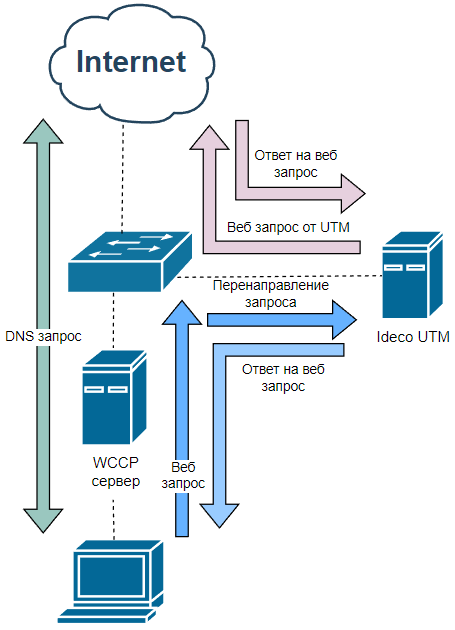
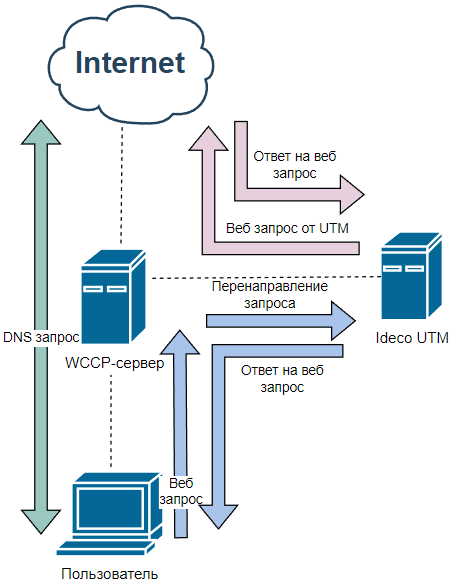
ICS-28492 УТМ. Добавить поддержку WCCP в прокси-сервер/саморевью

Changed region(s): [[0.0, 0.0, 0.9912, 1.0], [0.4027, 0.0306, 0.4646, 0.0918], [0.4646, 0.0918, 0.4956, 0.1224]]

diff --git a/settings/services/proxy/README.md b/settings/services/proxy/README.md
@@ -58,19 +58,20 @@ description: >-
 
 ![](../../../.gitbook/assets/proxy-server6.png)
 
-Пользователь запрашивает доступ к веб-странице:
-* Запрос проходит через межсетевой экран, на котором настроен WCCP, и перенаправляется коммутатором на Ideco UTM;
-* Ideco UTM является сервер кэширования и обрабатывает запрос:
-  * Если запрос заблокирован, то информация о блокировке отправляется обратно пользователю.
-  * Если запрос не заблокирован, то Ideco UTM проверяет включено ли кэширование трафика на диск (опция включается на вкладке **Основное**): 
-    * Кэширование включено: Ideco UTM ищет копию запрашиваемой страницы в кэше:
-      * Страница есть -> отправляется пользователю; 
-      * Страницы нет -> выполняется действие, аналогичное последнему пункту.
-    * Кэширование выключено: Ideco UTM направляет запрос на внешний сервер и ответ возвращается обратно по тому же пути, по которому уходил на внешний сервер.
+WCCP-сервер отправляет и принимает DNS запросы минуя Ideco UTM. \
+Для веб-запросов действует следующая логика:
+* Запрос перенаправляется WCCP-сервером на Ideco UTM;
+* Ideco UTM обрабатывает запрос. \
+  Если запрос заблокирован, то информация о блокировке отправляется обратно пользователю. \
+  Если запрос не заблокирован, то Ideco UTM проверяет включено ли кэширование трафика на диск (опция включается на вкладке **Основное**) и сохранена ли страница в кэше: 
+  * Кэширование включено и страница в кэше есть, то Ideco UTM отправляет страницу пользователю; 
+  * Кэширование выключено или страницы в кэше нет: Ideco UTM  подменяет IP-адрес источника и направляет запрос на внешний сервер. Ответ возвращается обратно по тому же пути, по которому уходил на внешний сервер.
 
 Для активации WCCP переведите опцию **Включить перенаправление трафика c WCCP серверов на Ideco UTM** в положение **Включен**. Ideco UTM запустит процесс согласования параметров с WCCP сервером.
 
-Если на WCCP сервере задан пароль, то сохраните его в соответствующем поле.
+Если на WCCP-сервере задан пароль, то сохраните его в соответствующем поле и нажмите **Сохранить**:
+
+![](../../../.gitbook/assets/proxy-server8.png)
 
 Укажите значение от 1 до 10000 в поле **Вес** для приоритизации Ideco UTM в выборе перенаправления трафика WCCP-сервером.
 
